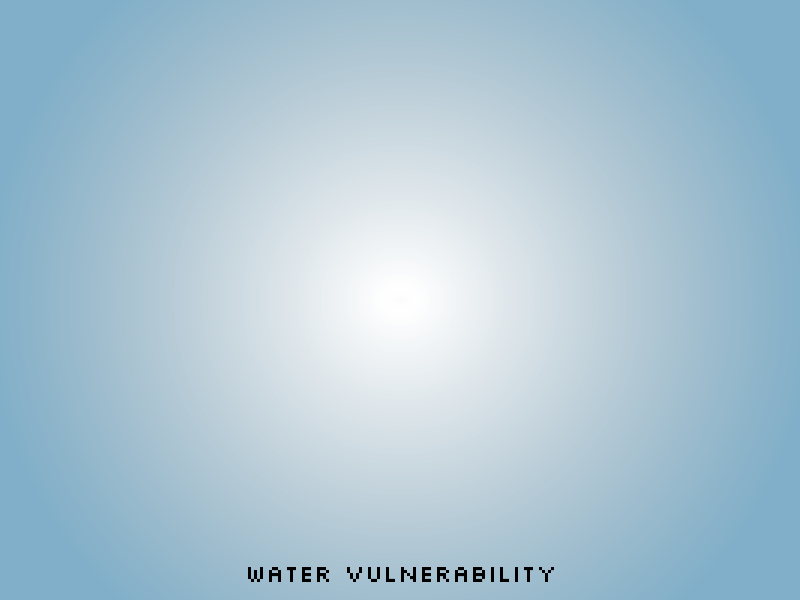
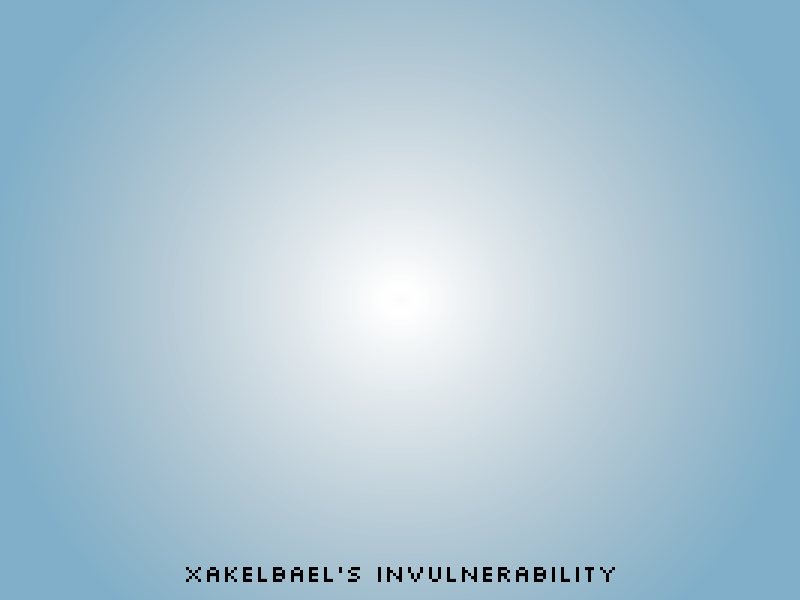
DEFCON 7, tweak the images

Changed region(s): [[0.4375, 0.93, 0.7812, 0.99], [0.2188, 0.93, 0.4062, 0.99]]

diff --git a/license.md b/license.md
@@ -103,6 +103,7 @@ File | Artists | Licenses
 File | Artists | Licenses
 ---- |:-------:|:--------:
 `graphics/images/ambient/clouds.png` | Crush | GPLv2, CC BY-SA 3.0
+`graphics/images/ambient/dd5_absorb.png` | Crush, Jesusalva | GPLv2, CC BY-SA 3.0
 `graphics/images/ambient/dd5_bones.png` | Crush, Jesusalva | GPLv2, CC BY-SA 3.0
 `graphics/images/ambient/dd5_doubledef.png` | Crush, Jesusalva | GPLv2, CC BY-SA 3.0
 `graphics/images/ambient/dd5_invulnerable.png` | Crush, Jesusalva | GPLv2, CC BY-SA 3.0
